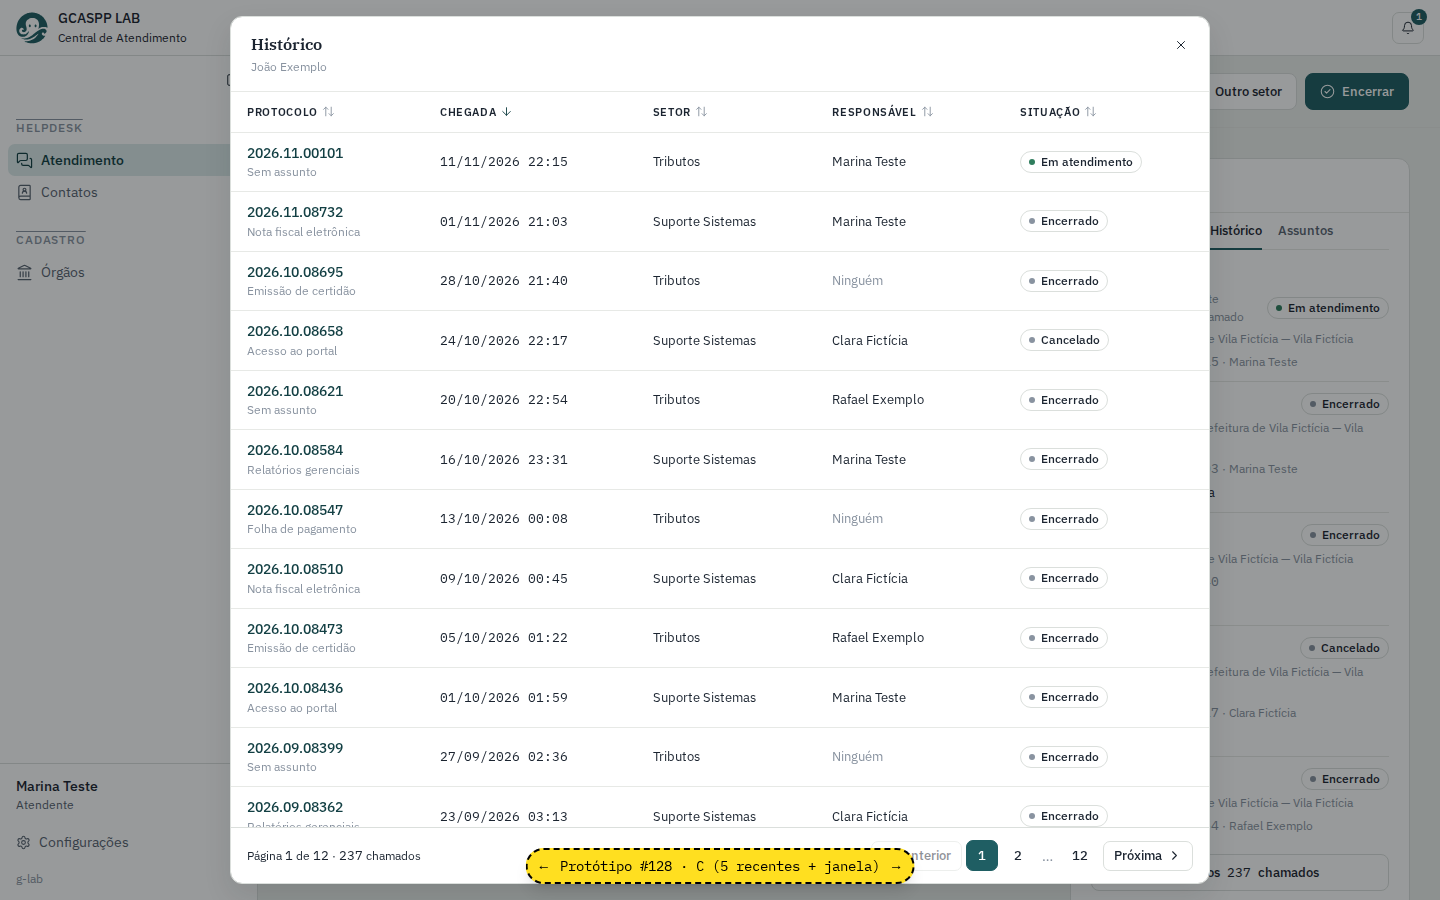
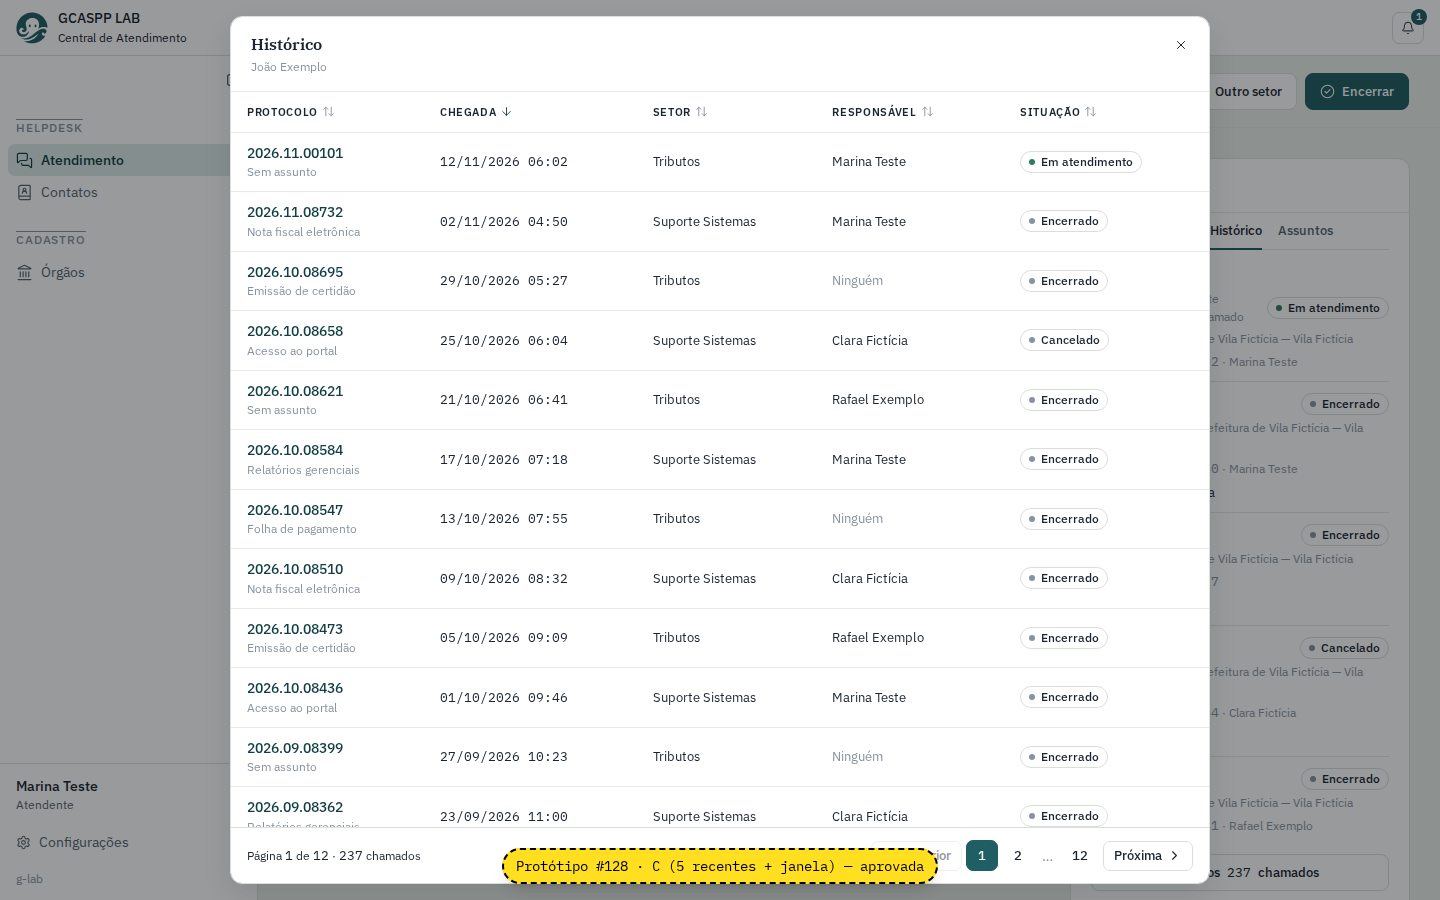
prototype: #128 só a versão C aprovada (5 recentes + janela)

Changed region(s): [[0.3438, 0.9333, 0.6562, 0.9956]]

diff --git a/frontend/src/components/TicketHistory.prototype.tsx b/frontend/src/components/TicketHistory.prototype.tsx
@@ -1,12 +1,12 @@
 // PROTÓTIPO #128 — descartável, não vai para a main.
 // Histórico do contato e do órgão em páginas de 20 e ordenável. A janela dos
 // cadastros vira tabela (padrão de Contatos, #126). A aba Histórico do chamado
-// tem três versões, trocadas por ?variant= (A, B ou C) ou pela barra amarela.
+// ficou só na versão C aprovada: 5 recentes e o resto na janela grande.
 // Página e ordem ficam em memória aqui; na implementação vão para o endereço.
 import { keepPreviousData, useQuery } from '@tanstack/react-query'
-import { ArrowDown, ArrowUp, ChevronLeft, ChevronRight, History } from 'lucide-react'
-import { useEffect, useState } from 'react'
-import { Link, useSearchParams } from 'react-router'
+import { History } from 'lucide-react'
+import { useState } from 'react'
+import { Link } from 'react-router'
 import { Pagination } from '@/components/Pagination'
 import { SortableTableHead } from '@/components/SortableTableHead'
 import { Badge } from '@/components/ui/badge'
@@ -20,7 +20,6 @@ import {
 } from '@/components/ui/dialog'
 import { Empty, EmptyDescription, EmptyMedia } from '@/components/ui/empty'
 import { Table, TableBody, TableCell, TableHeader, TableRow } from '@/components/ui/table'
-import { Tabs, TabsList, TabsTrigger } from '@/components/ui/tabs'
 import { api } from '@/lib/api'
 import type { HistoryEntry } from '@/lib/conversation'
 import { formatDateTime, organizationLabel, ticketStatusLabel } from '@/lib/format'
@@ -104,52 +103,6 @@ function ProtocolLink({ entry, onOpen }: { entry: HistoryEntry; onOpen?: () => v
     </Link>
   )
 }
-
-// Paginação curta para a coluna estreita do chamado: setas e "X de Y".
-function CompactPagination({
-  page,
-  total,
-  pageSize,
-  onPage,
-}: {
-  page: number
-  total: number
-  pageSize: number
-  onPage: (page: number) => void
-}) {
-  if (total <= pageSize) {
-    return null
-  }
-  const pages = Math.ceil(total / pageSize)
-  return (
-    <nav aria-label="Paginação" className="flex items-center justify-between gap-2 pt-2">
-      <Button
-        variant="outline"
-        size="icon"
-        aria-label="Página anterior"
-        disabled={page <= 1}
-        onClick={() => onPage(page - 1)}
-      >
-        <ChevronLeft strokeWidth={1.7} aria-hidden />
-      </Button>
-      <p className="caption text-ink-soft">
-        Página <span className="mono-num">{page}</span> de <span className="mono-num">{pages}</span>{' '}
-        · <span className="mono-num">{total}</span> chamados
-      </p>
-      <Button
-        variant="outline"
-        size="icon"
-        aria-label="Próxima página"
-        disabled={page >= pages}
-        onClick={() => onPage(page + 1)}
-      >
-        <ChevronRight strokeWidth={1.7} aria-hidden />
-      </Button>
-    </nav>
-  )
-}
-
-// ---------- Janela dos cadastros (todas as versões) ----------
 
 function HistoryTable({
   kind,
@@ -281,147 +234,6 @@ function EntryCard({ entry, currentTicketId }: { entry: HistoryEntry; currentTic
   )
 }
 
-// A: a lista de hoje, com uma linha "Ordenar por" e paginação curta.
-function SortChips({ list }: { list: HistoryList }) {
-  const options = [
-    ['chegada', 'Chegada'],
-    ['protocolo', 'Protocolo'],
-    ['situacao', 'Situação'],
-  ] as const
-  return (
-    <div className="flex items-center gap-0.5 pb-1">
-      <span className="caption mr-1 text-ink-faint">Ordenar</span>
-      {options.map(([column, label]) => {
-        const active = list.column === column
-        const Icon = list.direction === 'asc' ? ArrowUp : ArrowDown
-        return (
-          <Button
-            key={column}
-            variant={active ? 'outline' : 'ghost'}
-            size="sm"
-            className="h-7 px-2"
-            aria-pressed={active}
-            onClick={() => list.toggleSort(column)}
-          >
-            {label}
-            {active && <Icon strokeWidth={1.7} aria-hidden className="text-accent-strong" />}
-          </Button>
-        )
-      })}
-    </div>
-  )
-}
-
-function SectionA({
-  title,
-  kind,
-  id,
-  ticketId,
-}: {
-  title: string
-  kind: Kind
-  id: number
-  ticketId: number
-}) {
-  const list = useHistoryList()
-  const { data } = useHistoryPage(kind, id, list)
-  return (
-    <section>
-      <h3 className="overline text-ink-soft">{title}</h3>
-      {data && data.total === 0 && <EmptyHistory />}
-      {data && data.total > 0 && (
-        <>
-          <SortChips list={list} />
-          <ul className="flex flex-col divide-y divide-line-soft">
-            {data.items.map((entry) => (
-              <EntryCard key={entry.id} entry={entry} currentTicketId={ticketId} />
-            ))}
-          </ul>
-          <CompactPagination {...data} onPage={list.setPage} />
-        </>
-      )}
-    </section>
-  )
-}
-
-function VariantA({ ticketId, contactId, organization }: TabProps) {
-  return (
-    <div className="flex flex-col gap-6">
-      <SectionA title="Do contato" kind="contact" id={contactId} ticketId={ticketId} />
-      {organization && (
-        <SectionA title="Do órgão" kind="organization" id={organization.id} ticketId={ticketId} />
-      )}
-    </div>
-  )
-}
-
-// B: tabela compacta, com contato/órgão num seletor, uma lista por vez.
-function VariantB({ ticketId, contactId, organization }: TabProps) {
-  const [kind, setKind] = useState<Kind>('contact')
-  return (
-    <div className="flex flex-col gap-3">
-      {organization && (
-        <Tabs value={kind} onValueChange={(value) => setKind(value as Kind)}>
-          <TabsList>
-            <TabsTrigger value="contact">Do contato</TabsTrigger>
-            <TabsTrigger value="organization">Do órgão</TabsTrigger>
-          </TabsList>
-        </Tabs>
-      )}
-      <CompactTable
-        key={kind}
-        kind={kind}
-        id={kind === 'contact' ? contactId : (organization?.id ?? contactId)}
-        ticketId={ticketId}
-      />
-    </div>
-  )
-}
-
-function CompactTable({ kind, id, ticketId }: { kind: Kind; id: number; ticketId: number }) {
-  const list = useHistoryList()
-  const { data } = useHistoryPage(kind, id, list)
-  if (!data) {
-    return null
-  }
-  if (data.total === 0) {
-    return <EmptyHistory />
-  }
-  return (
-    <div>
-      <Table>
-        <TableHeader>
-          <TableRow>
-            <SortableTableHead label="Protocolo" column="protocolo" list={list} />
-            <SortableTableHead label="Chegada" column="chegada" list={list} />
-            <SortableTableHead label="Situação" column="situacao" list={list} />
-          </TableRow>
-        </TableHeader>
-        <TableBody>
-          {data.items.map((entry) => (
-            <TableRow key={entry.id}>
-              <TableCell className="whitespace-normal">
-                <ProtocolLink entry={entry} />
-                <p className="caption text-ink-faint">
-                  {entry.id === ticketId
-                    ? 'Este chamado'
-                    : [entry.subject, entry.assigneeName].filter(Boolean).join(' · ') ||
-                      entry.sectorName}
-                </p>
-              </TableCell>
-              <TableCell className="mono-num caption">{formatDateTime(entry.arrivedAt)}</TableCell>
-              <TableCell>
-                <StatusBadge entry={entry} />
-              </TableCell>
-            </TableRow>
-          ))}
-        </TableBody>
-      </Table>
-      <CompactPagination {...data} onPage={list.setPage} />
-    </div>
-  )
-}
-
 // C: só os 5 mais recentes na aba; o histórico inteiro abre na janela grande.
 function RecentSection({
   title,
@@ -488,52 +300,12 @@ function VariantC({ ticketId, contactId, organization, contactName }: TabProps) 
   )
 }
 
-const variants = [
-  ['A', 'A (lista + ordenar por)'],
-  ['B', 'B (tabela compacta)'],
-  ['C', 'C (5 recentes + janela)'],
-] as const
-
-export function useHistoryVariant() {
-  const [params] = useSearchParams()
-  const v = params.get('variant')
-  return v === 'B' || v === 'C' ? v : 'A'
-}
-
 export function HistoryTabPrototype(props: TabProps) {
-  const variant = useHistoryVariant()
-  return (
-    <>
-      {variant === 'A' && <VariantA {...props} />}
-      {variant === 'B' && <VariantB {...props} />}
-      {variant === 'C' && <VariantC {...props} />}
-    </>
-  )
+  return <VariantC {...props} />
 }
 
-// Barra de troca de versão: fixa embaixo, amarela, só em desenvolvimento.
+// Barra do protótipo: fixa embaixo, amarela, só em desenvolvimento.
 export function PrototypeSwitcher() {
-  const [, setParams] = useSearchParams()
-  const current = useHistoryVariant()
-  const index = variants.findIndex(([v]) => v === current)
-  const go = (step: number) => {
-    const next = variants[(index + step + variants.length) % variants.length][0]
-    setParams((p) => {
-      const copy = new URLSearchParams(p)
-      copy.set('variant', next)
-      return copy
-    })
-  }
-  useEffect(() => {
-    const onKey = (event: KeyboardEvent) => {
-      const el = document.activeElement
-      if (el && (el.matches('input, textarea') || (el as HTMLElement).isContentEditable)) return
-      if (event.key === 'ArrowLeft') go(-1)
-      if (event.key === 'ArrowRight') go(1)
-    }
-    window.addEventListener('keydown', onKey)
-    return () => window.removeEventListener('keydown', onKey)
-  })
   if (!import.meta.env.DEV) return null
   return (
     <div
@@ -542,13 +314,7 @@ export function PrototypeSwitcher() {
         'border-2 border-dashed border-black bg-yellow-300 px-3 py-1.5 font-mono text-sm text-black shadow-lg',
       )}
     >
-      <button type="button" aria-label="Versão anterior" onClick={() => go(-1)}>
-        ←
-      </button>
-      <span>Protótipo #128 · {variants[index][1]}</span>
-      <button type="button" aria-label="Próxima versão" onClick={() => go(1)}>
-        →
-      </button>
+      <span>Protótipo #128 · C (5 recentes + janela) — aprovada</span>
     </div>
   )
 }

diff --git a/frontend/src/pages/ticket/TicketPage.tsx b/frontend/src/pages/ticket/TicketPage.tsx
@@ -37,11 +37,7 @@ import { ConversationList } from '@/components/ConversationList'
 import { CorrectionSheet } from '@/components/CorrectionSheet'
 import { ReturnSheet } from '@/components/ReturnSheet'
 import { TicketHistoryList } from '@/components/TicketHistory'
-import {
-  HistoryTabPrototype,
-  PrototypeSwitcher,
-  useHistoryVariant,
-} from '@/components/TicketHistory.prototype'
+import { HistoryTabPrototype, PrototypeSwitcher } from '@/components/TicketHistory.prototype'
 import { Topbar } from '@/components/Topbar'
 import { TransferSheet } from '@/components/TransferSheet'
 import { Alert, AlertDescription } from '@/components/ui/alert'
@@ -1007,7 +1003,6 @@ export default function TicketPage() {
   const openRegistration = () => setRegistering(true)
   const { data: recordedModules } = useTicketModules(ticketId, ticket?.status === 'closed')
   const [view, setView] = useTicketView(ticketId)
-  const historyVariant = useHistoryVariant() // PROTÓTIPO #128
 
   if (error) {
     return (
@@ -1130,11 +1125,9 @@ export default function TicketPage() {
       <div
         className={cn(
           'grid w-full items-start gap-4 px-4 py-4 md:px-[30px] md:py-[30px]',
-          historyVariant === 'B' && view.tab === 'history'
-            ? 'lg:grid-cols-[minmax(0,1fr)_480px] xl:grid-cols-[280px_minmax(0,1fr)_480px]'
-            : subjectsOpen
-              ? 'lg:grid-cols-[minmax(0,1fr)_420px] xl:grid-cols-[280px_minmax(0,1fr)_420px]'
-              : 'lg:grid-cols-[minmax(0,1fr)_340px] xl:grid-cols-[280px_minmax(0,1fr)_340px]',
+          subjectsOpen
+            ? 'lg:grid-cols-[minmax(0,1fr)_420px] xl:grid-cols-[280px_minmax(0,1fr)_420px]'
+            : 'lg:grid-cols-[minmax(0,1fr)_340px] xl:grid-cols-[280px_minmax(0,1fr)_340px]',
         )}
       >
         {assign.error && (
